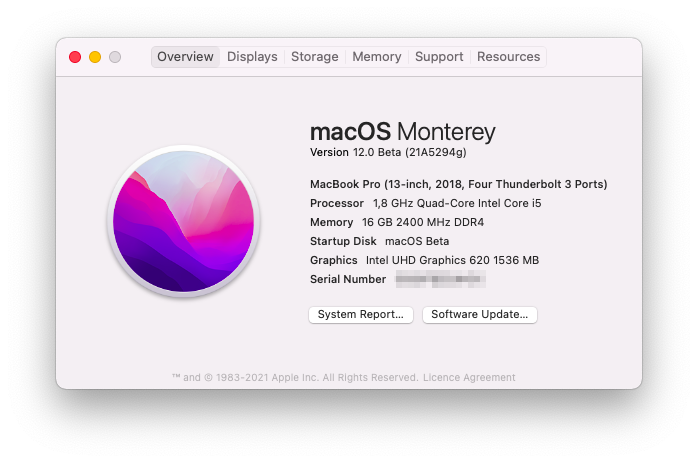
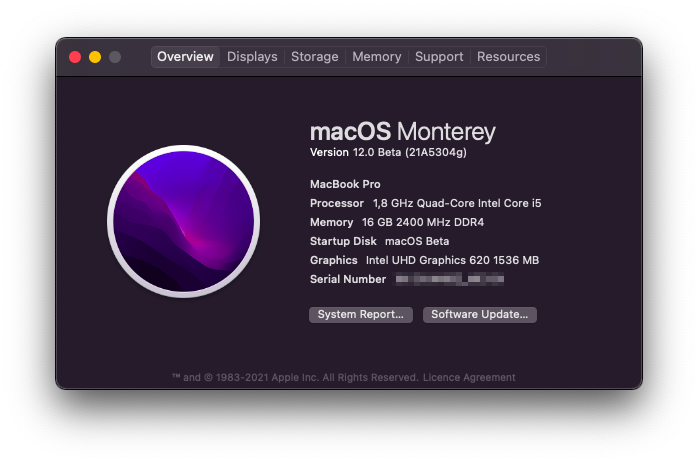
[README.md] Updated to Monterey 12.0 Beta 5 (21A5340g)

diff --git a/README.md b/README.md
@@ -13,7 +13,7 @@
 | **Storage**    | `Western Digital SN750 Black NVMe 512GB`  |
 | **Audio Code** | `Realtek ALC295 (ALC3254)`                |
 | **WiFi Card**  | `BCM943602BAED aka DW1830`                |
-| **OS**         | `macOS Monterey 12.0 Beta (21A5294g)`     |
+| **OS**         | `macOS Monterey 12.0 Beta (21A5304g)`     |
 | **BIOS**       | `v1.18`                                   |
 
 
